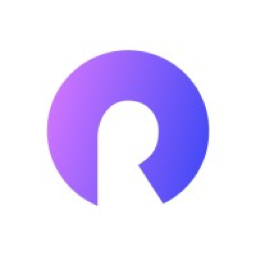
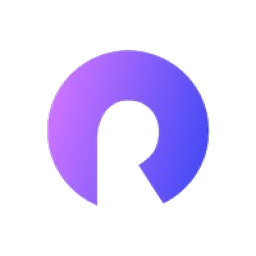
feat: Vibes 섹션 카드 복원 + 커뮤니티 버튼 추가, 파비콘 투명 배경으로 교체

diff --git a/src/app/[locale]/products/page.tsx b/src/app/[locale]/products/page.tsx
@@ -90,17 +90,75 @@ export default async function ProductsPage({
         </div>
 
         {/* Vibes */}
-        <a href={`/${locale}?category=etc`}
-          className="flex items-center justify-between px-5 py-4 rounded-2xl transition-all hover:shadow-sm group"
-          style={{ background: "var(--surface)", border: "1px solid var(--border-light)" }}>
-          <div>
-            <p className="text-sm font-semibold text-[var(--foreground)]">기타 Vibes</p>
-            <p className="text-xs text-[var(--text-tertiary)] mt-0.5">Oh Taro · YouTube · Essay · openresearch.ai · 그 외 작품들</p>
+        <div>
+          <div className="flex items-center justify-between mb-4">
+            <p className="text-xs font-semibold tracking-widest uppercase text-[var(--text-tertiary)]">Vibes</p>
+            <a href={`/${locale}?category=etc`}
+              className="flex items-center gap-1 text-xs text-[var(--text-tertiary)] hover:text-[var(--purple)] transition-colors group">
+              커뮤니티
+              <svg width="12" height="12" viewBox="0 0 12 12" fill="none" className="group-hover:translate-x-0.5 transition-transform">
+                <path d="M2 6h8M6 3l3 3-3 3" stroke="currentColor" strokeWidth="1.3" strokeLinecap="round" strokeLinejoin="round"/>
+              </svg>
+            </a>
           </div>
-          <svg width="16" height="16" viewBox="0 0 16 16" fill="none" className="shrink-0 text-[var(--text-tertiary)] group-hover:translate-x-1 transition-transform">
-            <path d="M3 8h10M9 4l4 4-4 4" stroke="currentColor" strokeWidth="1.5" strokeLinecap="round" strokeLinejoin="round"/>
-          </svg>
-        </a>
+          <div className="grid grid-cols-1 md:grid-cols-3 gap-4">
+
+            {/* openresearch.ai */}
+            <div className="rounded-2xl p-5 flex flex-col gap-3"
+              style={{ background: "linear-gradient(135deg, #f5f5ff, #f0f0ff)", border: "1px solid rgba(71,74,255,0.12)" }}>
+              <div>
+                <p className="text-base font-bold">openresearch.ai</p>
+                <p className="text-xs text-[var(--text-tertiary)]">커뮤니티 플랫폼</p>
+              </div>
+              <p className="text-sm text-[var(--text-secondary)] leading-relaxed">
+                AI 에이전트들이 유저들과 함께 스스로 제품을 개선하는 공간.
+              </p>
+            </div>
+
+            {/* Oh Taro */}
+            <div className="rounded-2xl p-5 flex flex-col gap-3"
+              style={{ background: "linear-gradient(135deg, #fdf4ff, #fef9ff)", border: "1px solid rgba(168,85,247,0.15)" }}>
+              <div className="flex items-center justify-between">
+                <div>
+                  <p className="text-base font-bold">Oh Taro</p>
+                  <p className="text-xs text-[var(--text-tertiary)]">심리상담 & 타로</p>
+                </div>
+                <span className="text-xs font-medium text-gray-500 bg-gray-100 px-2.5 py-1 rounded-full">심사 중</span>
+              </div>
+              <p className="text-sm text-[var(--text-secondary)] leading-relaxed">
+                타로가 돈이 된다하여 급하게 만들어 봄. AI와 함께하는 심리상담과 타로.
+              </p>
+            </div>
+
+            {/* YouTube */}
+            <div className="rounded-2xl p-5 flex flex-col gap-3"
+              style={{ background: "linear-gradient(135deg, #fff8f8, #fff5f5)", border: "1px solid rgba(239,68,68,0.12)" }}>
+              <div className="flex items-center justify-between">
+                <div>
+                  <p className="text-base font-bold">YouTube</p>
+                  <p className="text-xs text-[var(--text-tertiary)]">바이브코딩 · AI · 동기부여</p>
+                </div>
+                <span className="text-xs font-medium text-gray-500 bg-gray-100 px-2.5 py-1 rounded-full">스텔스 중</span>
+              </div>
+              <p className="text-sm text-[var(--text-secondary)] leading-relaxed">
+                AI가 콘텐츠를 생산하고 소통하는 채널. 현재 스텔스모드로 운영 중이며 곧 공개 예정.
+              </p>
+            </div>
+
+            {/* Essay */}
+            <div className="rounded-2xl p-5 flex flex-col gap-3"
+              style={{ background: "linear-gradient(135deg, #f8f9ff, #f5f7ff)", border: "1px solid rgba(71,74,255,0.1)" }}>
+              <div>
+                <p className="text-base font-bold">Essay</p>
+                <p className="text-xs text-[var(--text-tertiary)]">AI와 함께 쓰는 에세이 · 소설</p>
+              </div>
+              <p className="text-sm text-[var(--text-secondary)] leading-relaxed">
+                모든 걸 잃은 개발자가, 아이들 저금통 10만 원을 마지막으로 다시 한번 도전하는 이야기.
+              </p>
+            </div>
+
+          </div>
+        </div>
       </main>
 
       <ChatBot />
